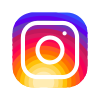
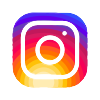
better contact form css

diff --git a/src/styles/home.css b/src/styles/home.css
@@ -3,6 +3,7 @@
     --dark: #b37d8b;
     --light: #ffecf1;
     --white: #ffffff;
+    --verylightgrey: #e2e2e2;
     --grey: #848484;
     --lightgrey: #bcbcbc;
     --darkgrey: #4c4c4c;
@@ -45,6 +46,25 @@ h6 {
     font-weight: 100;
     margin-block-start: 0%;
     margin-block-end: 0%;
+}
+
+::-webkit-scrollbar {
+    width: 10px;
+}
+
+::-webkit-scrollbar-track {
+    background: var(--light); 
+    border-radius: 100px;
+}
+
+::-webkit-scrollbar-thumb {
+    background: var(--pink); 
+    border-radius: 100px;
+}
+
+::-webkit-scrollbar-thumb:hover {
+    background: var(--dark); 
+    border-radius: 100px;
 }
 
 .bold {
@@ -268,7 +288,7 @@ h6 {
     width: 50px;
     height: 50px;
     padding: 0 25px;
-    filter: grayscale(100%);
+    filter: brightness(0);
     transition: all 0.3s ease-in-out;
 }
 
@@ -312,8 +332,8 @@ h6 {
     align-items: center;
     width: 70%;
     height: fit-content;
-    margin: 20px auto;
-    padding: 20px;
+    max-height: 100%;
+    padding: 1rem;
     border-radius: 30px;
     background: var(--white);
     box-shadow:  15px 15px 45px var(--lightgrey),
@@ -329,22 +349,59 @@ h6 {
     margin-block-start: 5%;
 }
   
-  .contact-me-form label,
-  .contact-me-form input,
-  .contact-me-form textarea {
+
+.contact-me-form input,
+.contact-me-form textarea {
+    font-family: 'Poppins', sans-serif;
+    margin-bottom: 0.8rem;
+    margin-top: 0.2rem;
+    color: var(--black);
+    border: none;
+    background-color: var(--verylightgrey);
+    border-radius: 5px;
+    padding: 1rem;
+    max-height: 50%;
+    height: 2rem;
+    box-sizing: border-box;
+    transition: outline-offset 0.25s ease-in-out;
+}
+
+.contact-me-form input:focus,
+.contact-me-form textarea:focus {
+    outline: 2px solid var(--pink);
+    outline-offset: 3px;
+}
+
+.contact-me-form input::placeholder,
+.contact-me-form textarea::placeholder {
+    color: var(--lightgrey);
+}
+
+.contact-me-form input:focus::placeholder,
+.contact-me-form textarea:focus::placeholder {
+    color: transparent;
+}
+
+.contact-me-form label,
+.contact-me-form input,
+.contact-me-form textarea {
     text-align: left;
     display: block;
     width: 100%;
-  }
+    min-width: 100%;
+    max-width: 100%;
+}
 
-  .contact-me-form input {
-    margin-bottom: 10px;
-  }
 
-  .contact-me-form textarea {
-    height: 150px;
+.contact-me-form textarea {
+    height: 100px;
+    min-height: 2.2rem;
+    max-height: 200px;
     margin-bottom: 20px;
-  }
+    padding-top: 0.5rem;
+    overflow-x: hidden;
+    border-bottom-right-radius: 0px;
+}
 
 .contact-me-form button {
     position: relative;
@@ -362,10 +419,10 @@ h6 {
     transition: all 0.5s ease-in-out;
 }
 
-  .contact-me-form button-content {
+.contact-me-form button-content {
     position: relative;
     z-index: 1;
-  }
+}
   
 .contact-me-form button:hover {
     background: var(--dark);

diff --git a/src/pages/home.js b/src/pages/home.js
@@ -190,15 +190,15 @@ const Home = () => {
                   Send me a Message
                   <div class="underline-block"></div>
                 </h3>
-                <form class="contact-me-form darkgrey-text">
+                <form action="mailto:zuhayrshasan@gmail.com" method="post" enctype="text/plain" class="contact-me-form darkgrey-text">
                   <label for="to">To:</label>
                   <input type="text" id="to" name="to" value="LLoyd Wakefield" readonly/>
 
                   <label for="from">From:</label>
-                  <input type="text" id="from" name="from" required/>
+                  <input type="text" id="from" name="from" placeholder="example@gmail.com" required/>
 
                   <label for="message">Message:</label>
-                  <textarea id="message" name="message" required></textarea>
+                  <textarea id="message" name="message" placeholder="Where did you learn to be so cool?" required></textarea>
 
                   <button type="submit">
                     <span class="button-content">
